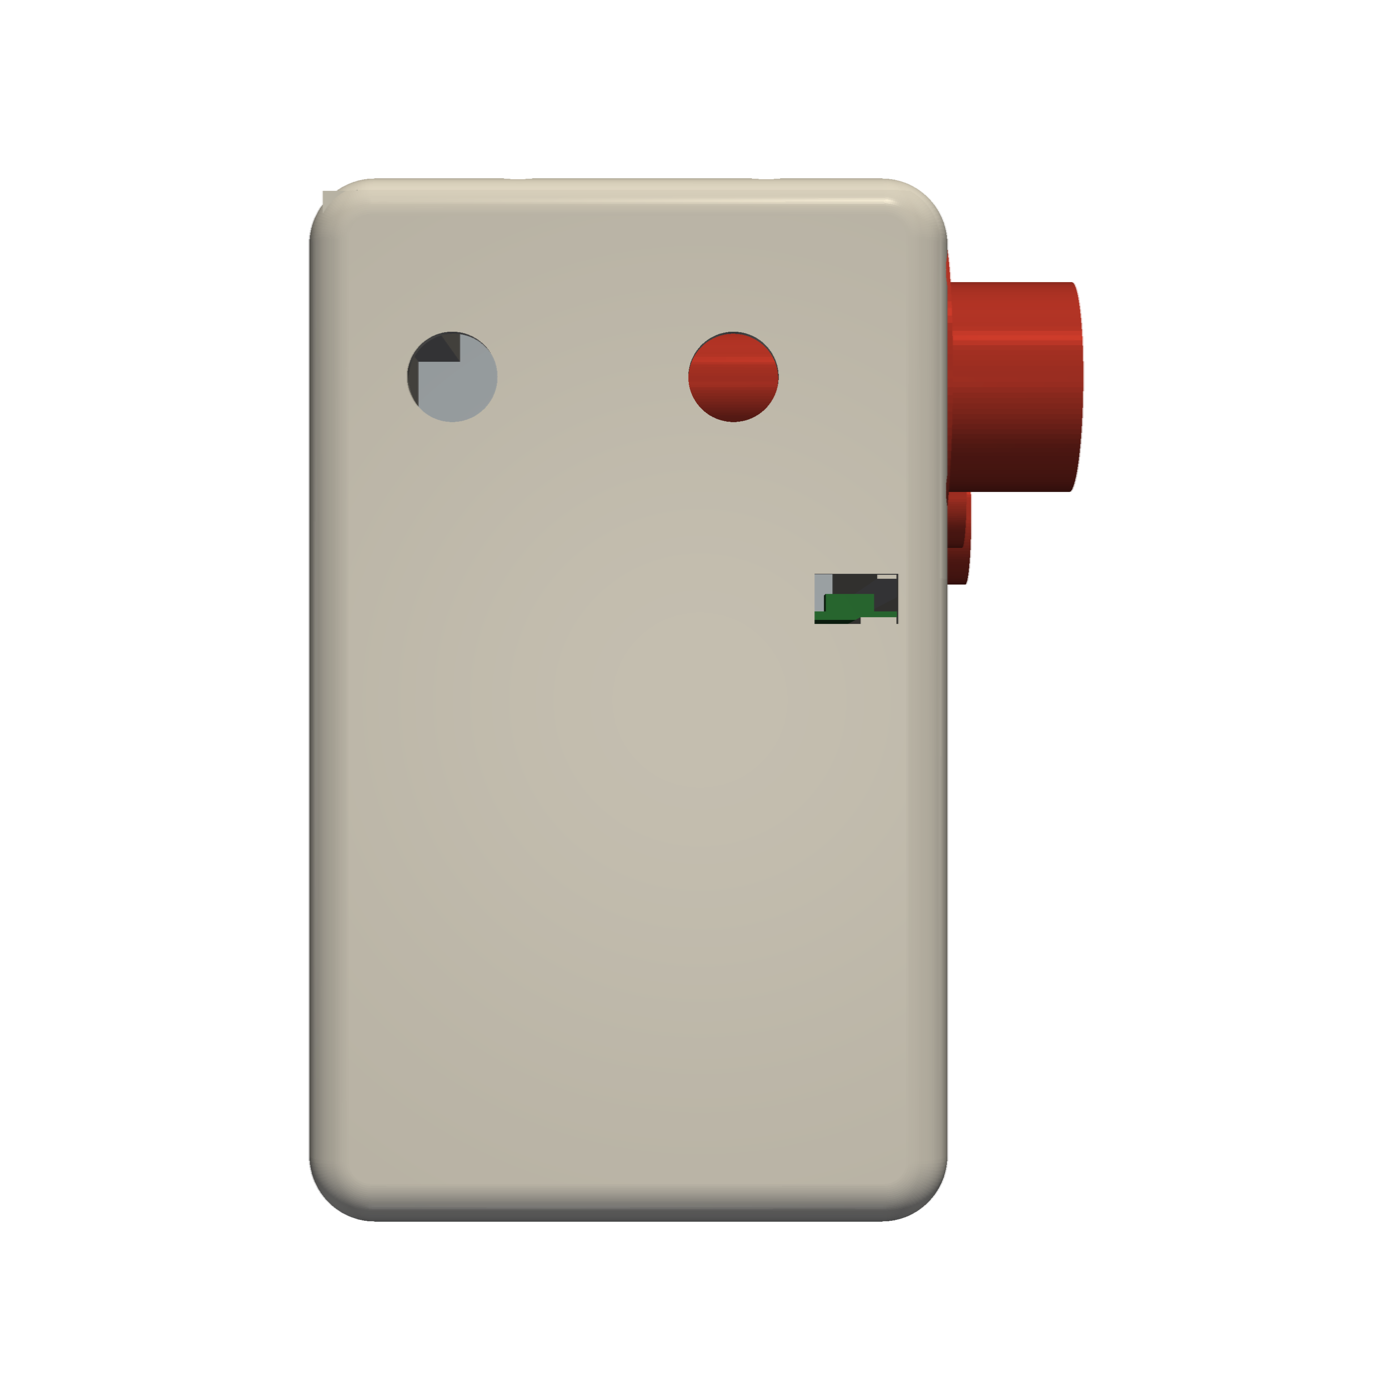
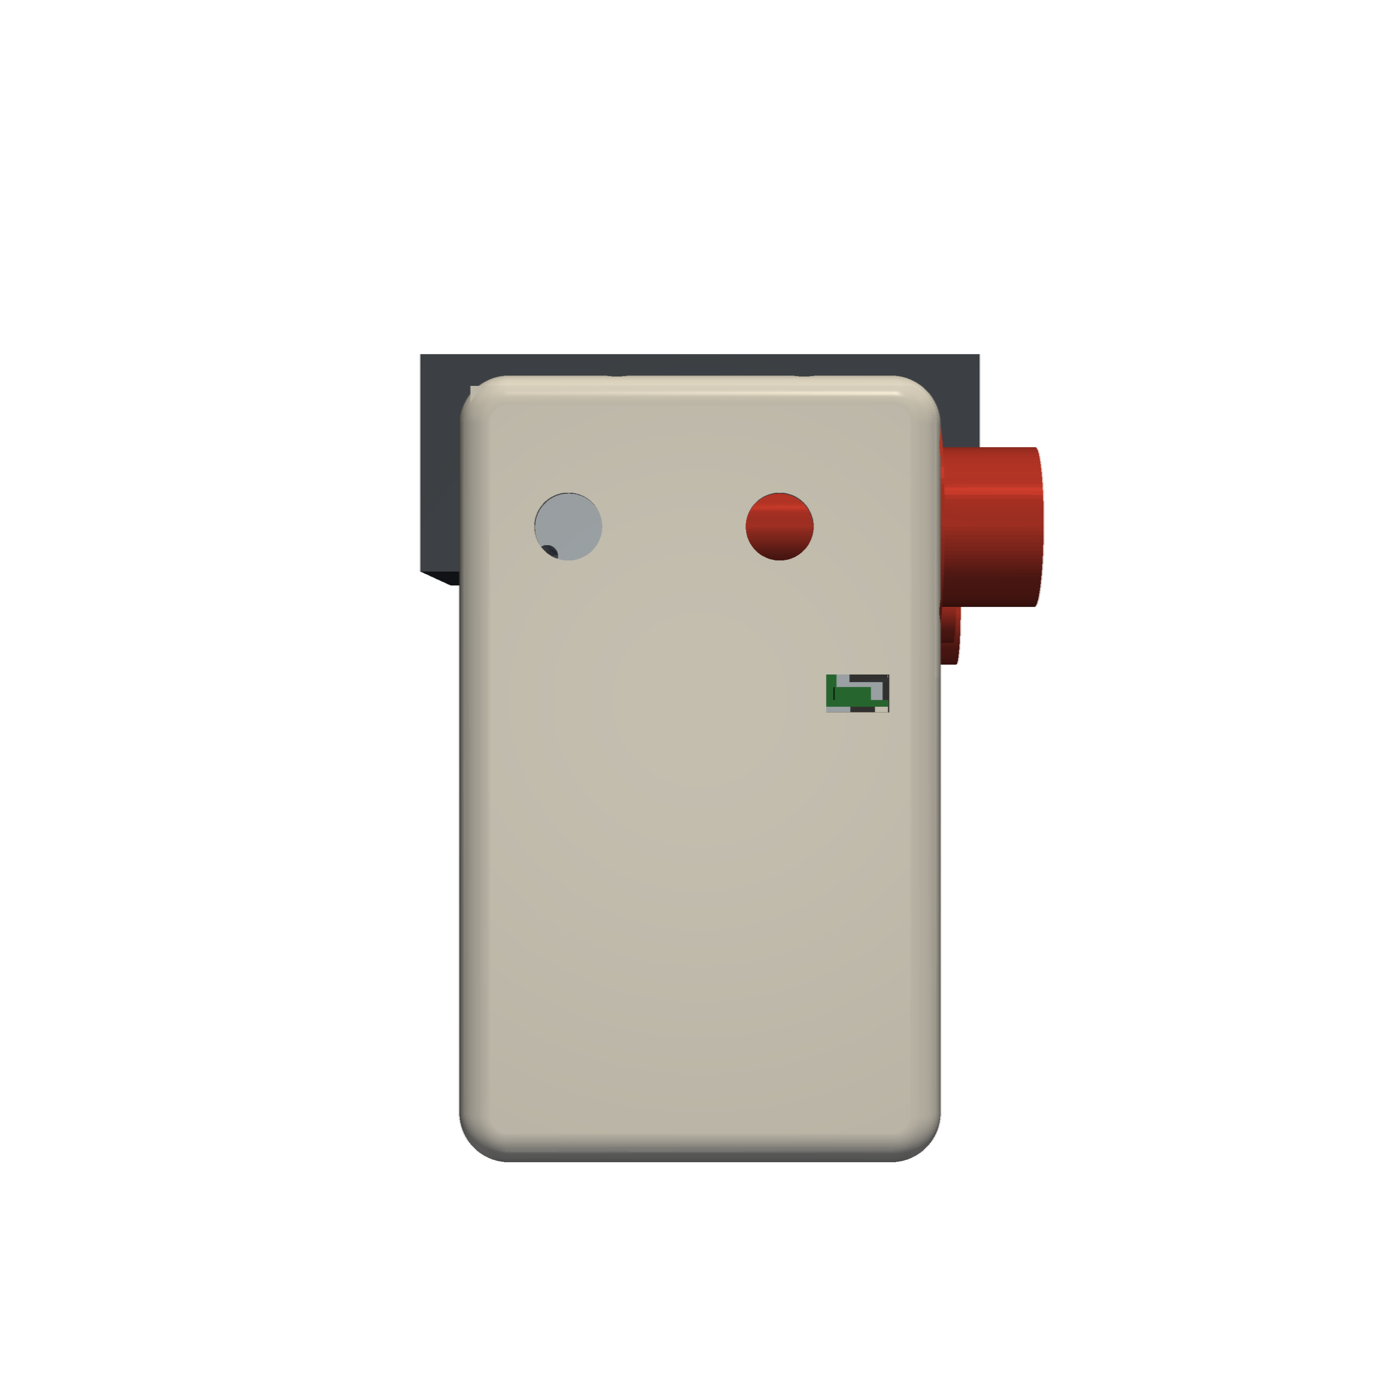
Housing + viewer follow the routed RP2040 board: real USB-C (J4) position for the end-wall slot, RP2040 group, buttons and SWD header in the PCB placeholder; connector names J5 clutch / J6 panel / J7 encoder+limits

Changed region(s): [[0.215, 0.1229, 0.7986, 0.8907], [0.5221, 0.3379, 0.5836, 0.3993]]

diff --git a/mechanical/viewer/index.html b/mechanical/viewer/index.html
@@ -87,7 +87,7 @@ const INFO = {
   control_rapid: ["Rapid button", "16 mm momentary (buy)", "Hold for rapid traverse in the selected direction."],
   control_dial: ["Speed dial", "EC11 encoder with push (buy)", "Turn to set the feed in mm/min; press to switch fine/coarse steps; long-press while stopped for the settings menu."],
   control_oled: ["Display", "1.3\" SH1106 OLED (buy)", "Shows the feed rate, the state (READY, RUNNING, faults), RAPID / LIMIT and the 36 V bus voltage."],
-  control_adapter: ["Panel adapter board", "Small PCB with a 2×7 IDC header", "Collects the switches, dial and display onto one ribbon cable down to J4 on the main PCB."],
+  control_adapter: ["Panel adapter board", "Small PCB with a 2×7 IDC header", "Collects the switches, dial and display onto one ribbon cable down to J6 on the main PCB."],
   field_housing: ["Clutch field housing", "Low-carbon steel, lathe", "Stationary magnet body with the coil cavity (exploded view)."],
   coil_bobbin: ["Clutch coil", "~850 turns 0.32 mm Cu", "The electromagnet (exploded view)."],
   rotor: ["Clutch rotor", "Low-carbon steel", "On the motor shaft: toothed face and magnetic poles (exploded view)."],

diff --git a/mechanical/feed_unit/feed_unit.py b/mechanical/feed_unit/feed_unit.py
@@ -377,8 +377,8 @@ def pcb_box(px0, px1, py0, py1, h0, h1):
     return bx(min(a[0], b[0]), max(a[0], b[0]), min(a[1], b[1]), max(a[1], b[1]), min(a[2], b[2]), max(a[2], b[2]))
 
 
-# PCB bodies from the KiCad layout; heights are assumptions. The MCU group is the bare RP2040 (QFN + flash + crystal)
-# where the Pico module used to be; the USB-C sits on the connector edge at PCB x 84..100.
+# PCB bodies from the KiCad layout (positions from the routed board, 7d76d3e); heights are assumptions.
+# Connectors: J1 36 V, J2 motor, J3 SWD header, J4 USB-C, J5 clutch, J6 panel IDC, J7 encoder + limit switches.
 PCB_HOLES = ((4, 4), (96, 4), (4, 96), (96, 96))
 
 
@@ -387,14 +387,17 @@ def pcb_placeholder():
     for cx, cy in ((15.5, 37.0), (19.0, 74.0)):                                   # 12.5 x 25 bulk caps
         x, y, w = pcb_to_world(cx, cy, 1.6)
         parts.append(ycyl(6.25, y, y + 25.0, x, w))
-    parts.append(pcb_box(50, 75, 5, 25, 1.6, 3.0))                                # RP2040 + flash + crystal
-    parts.append(pcb_box(86.5, 95.5, 92.5, 100.0, 1.6, 4.9))                      # USB-C
-    for x0, x1 in ((12.0, 25.3), (26.5, 49.9), (50.9, 64.2)):                      # J1..J3
+    parts.append(pcb_box(55.8, 73.7, 3.3, 25.0, 1.6, 3.0))                        # RP2040 U3, flash U4, crystal Y1
+    for x0, x1, y0, y1 in ((32.5, 42.5, 0.8, 8.2), (77.0, 87.0, 4.3, 11.7)):       # RESET SW2, BOOTSEL SW1
+        parts.append(pcb_box(x0, x1, y0, y1, 1.6, 5.1))
+    parts.append(pcb_box(44.6, 52.5, 1.9, 4.5, -3.0, 10.1))                       # SWD header J3 (THT: pins below too)
+    parts.append(pcb_box(83.1, 92.1, 92.9, 100.0, 1.6, 4.8))                      # USB-C J4, mouth at the edge
+    for x0, x1 in ((12.0, 25.3), (26.5, 49.9), (50.9, 64.2)):                      # J1 J2 J5
         parts.append(pcb_box(x0, x1, 89, 100, 1.6, 13.6))
-    parts.append(pcb_box(65.6, 72.4, 77, 98, 1.6, 10.1))                          # J5
-    parts.append(pcb_box(73.0, 83.9, 66.4, 92.9, 1.6, 11.6))                      # J4
+    parts.append(pcb_box(65.6, 72.4, 77, 98, 1.6, 10.1))                          # J7
+    parts.append(pcb_box(73.0, 83.9, 66.4, 92.9, 1.6, 11.6))                      # J6
     parts.append(pcb_box(0.0, 11.0, 59, 87, 1.6, 14.6))                           # fuse holder
-    for x0, x1 in ((12.0, 25.3), (26.5, 49.9), (50.9, 64.2)):                      # J1..J3 plugs + wire bend
+    for x0, x1 in ((12.0, 25.3), (26.5, 49.9), (50.9, 64.2)):                      # J1 J2 J5 plugs + wire bend
         parts.append(pcb_box(x0, x1, 100, 112, 1.6, 13.6))
     return parts
 
@@ -450,10 +453,10 @@ def shell():
     # back wall: exhaust vents high up, above the PCB (chimney flow; vertical face, so chips don't fall in)
     for i in range(4):
         s = s - bx(XB - T - 1, XB + 1, 4 + 7 * i, 7 + 7 * i, 140, 230)
-    # end wall: 2x M16 cable glands (36 V next to J1, limit switches next to J5) and the USB-C access slot
+    # end wall: 2x M16 cable glands (36 V next to J1, limit switches next to J7) and the USB-C access slot
     for xg in (pcb_to_world(18.6, 0, 0)[0], pcb_to_world(69.0, 0, 0)[0]):
         s = s - wcyl(8.1, W_END - T - 1, W_END + 1, xg, 10.0)
-    ux, uy, _ = pcb_to_world(91.0, 100, 1.6 + 1.6)
+    ux, uy, _ = pcb_to_world(87.6, 100, 1.6 + 1.6)                                # USB-C J4 centre
     s = s - bx(ux - 7.5, ux + 7.5, uy - 4.5, uy + 4.5, W_END - T - 1, W_END + 1)
     return s
 
@@ -674,9 +677,9 @@ strip along the upper front with their bodies reaching back over the PCB.
 | `hood` (one print) | the top and the control strip (y {f.band_y:.0f} … top) in one L-shaped piece. **Print with the strip face down** (the top stands up): labels engraved 0.6 mm come out crisp on the bed side. Lift it off and the whole PCB is exposed from above |
 | Plate | aluminium, {2 * f.x_half:.0f} wide, corners rounded R{f.r_long - T:.0f} to match the housing inside |
 | Fixing | both prints overlap the plate edges by {f.lap:.0f} mm and screw into them ({sum(1 for j in screw_joints() if j[4] == "tap")}× M3×8 countersunk into tapped holes); the hood also takes {sum(1 for j in screw_joints() if j[4] == "insert")}× M3×8 into heat-set inserts (M3 × 5.7, Ø4.0 holes) in the shell's rails |
-| PCB | flat on two printed rails, 4× M3×6 into heat-set inserts, underside {f.pcb_y:.0f} mm below the leadscrew axis: ≥3 mm above the motor's THT-lead line even with the motor raised 3 mm by the belt tensioner |
-| Controls (strip, left → right as you face it) | E-stop (Ø60 legend ring fits), LEFT/STOP/RIGHT toggle over RAPID, SPEED dial with the OLED above it; adapter board (2×7 IDC) on the strip's inside, ~200 mm ribbon down to J4 so the hood can be lifted and set beside the unit |
-| End wall | 2× M16 cable glands (36 V next to J1, limit switches next to J5) and a 15 × 9 slot to the USB-C: plug in without opening the box |
+| PCB | flat on two printed rails, 4× M3×6 into heat-set inserts, underside {f.pcb_y:.0f} mm below the leadscrew axis: ≥3 mm above the motor even with the motor raised 3 mm by the belt tensioner. Trim the SWD header's (J3) pins flush underneath: they are the closest point to the motor |
+| Controls (strip, left → right as you face it) | E-stop (Ø60 legend ring fits), LEFT/STOP/RIGHT toggle over RAPID, SPEED dial with the OLED above it; adapter board (2×7 IDC) on the strip's inside, ~200 mm ribbon down to J6 so the hood can be lifted and set beside the unit |
+| End wall | 2× M16 cable glands (36 V next to J1, limit switches next to J7) and a 15 × 9 slot to the USB-C: plug in without opening the box |
 | Vents | intake slots in the bottom under the motor, exhaust slots high in the back wall above the PCB (vertical face, so chips don't fall in) |
 
 - **BOOTSEL / RESET / fuse:** lift the hood. USB-C goes through the end-wall slot.

diff --git a/mechanical/viewer/pcb_parts.py b/mechanical/viewer/pcb_parts.py
@@ -45,8 +45,10 @@ ROLES = {
 KIND = {"R": "Resistor", "C": "Capacitor", "D": "Diode / LED", "L": "Inductor", "Q": "Transistor", "U": "IC",
         "J": "Connector", "F": "Fuse / PTC", "SW": "Button", "Y": "Crystal", "A": "Module", "TP": "Test point"}
 CONNECTORS = {"J1": "36 V input from the power supply.", "J2": "Stepper motor (A+ A- B+ B-).",
-              "J3": "Clutch coil.", "J4": "Ribbon to the control panel (E-stop, switch, rapid, dial, OLED).",
-              "J5": "Output encoder and the two limit switches."}
+              "J3": "SWD debug header (SWCLK, GND, SWDIO) for the Raspberry Pi Debug Probe. Hand-soldered.",
+              "J4": "USB-C: flashing (hold BOOTSEL, tap RESET) and logic power on the bench.",
+              "J5": "Clutch coil.", "J6": "Ribbon to the control panel (E-stop, switch, rapid, dial, OLED).",
+              "J7": "Output encoder and the two limit switches."}
 
 
 def schematic_info():

diff --git a/mechanical/feed_unit/FEED_UNIT.md b/mechanical/feed_unit/FEED_UNIT.md
@@ -68,9 +68,9 @@ strip along the upper front with their bodies reaching back over the PCB.
 | `hood` (one print) | the top and the control strip (y -26 … top) in one L-shaped piece. **Print with the strip face down** (the top stands up): labels engraved 0.6 mm come out crisp on the bed side. Lift it off and the whole PCB is exposed from above |
 | Plate | aluminium, 110 wide, corners rounded R9 to match the housing inside |
 | Fixing | both prints overlap the plate edges by 13 mm and screw into them (14× M3×8 countersunk into tapped holes); the hood also takes 9× M3×8 into heat-set inserts (M3 × 5.7, Ø4.0 holes) in the shell's rails |
-| PCB | flat on two printed rails, 4× M3×6 into heat-set inserts, underside -33 mm below the leadscrew axis: ≥3 mm above the motor's THT-lead line even with the motor raised 3 mm by the belt tensioner |
-| Controls (strip, left → right as you face it) | E-stop (Ø60 legend ring fits), LEFT/STOP/RIGHT toggle over RAPID, SPEED dial with the OLED above it; adapter board (2×7 IDC) on the strip's inside, ~200 mm ribbon down to J4 so the hood can be lifted and set beside the unit |
-| End wall | 2× M16 cable glands (36 V next to J1, limit switches next to J5) and a 15 × 9 slot to the USB-C: plug in without opening the box |
+| PCB | flat on two printed rails, 4× M3×6 into heat-set inserts, underside -33 mm below the leadscrew axis: ≥3 mm above the motor even with the motor raised 3 mm by the belt tensioner. Trim the SWD header's (J3) pins flush underneath: they are the closest point to the motor |
+| Controls (strip, left → right as you face it) | E-stop (Ø60 legend ring fits), LEFT/STOP/RIGHT toggle over RAPID, SPEED dial with the OLED above it; adapter board (2×7 IDC) on the strip's inside, ~200 mm ribbon down to J6 so the hood can be lifted and set beside the unit |
+| End wall | 2× M16 cable glands (36 V next to J1, limit switches next to J7) and a 15 × 9 slot to the USB-C: plug in without opening the box |
 | Vents | intake slots in the bottom under the motor, exhaust slots high in the back wall above the PCB (vertical face, so chips don't fall in) |
 
 - **BOOTSEL / RESET / fuse:** lift the hood. USB-C goes through the end-wall slot.
